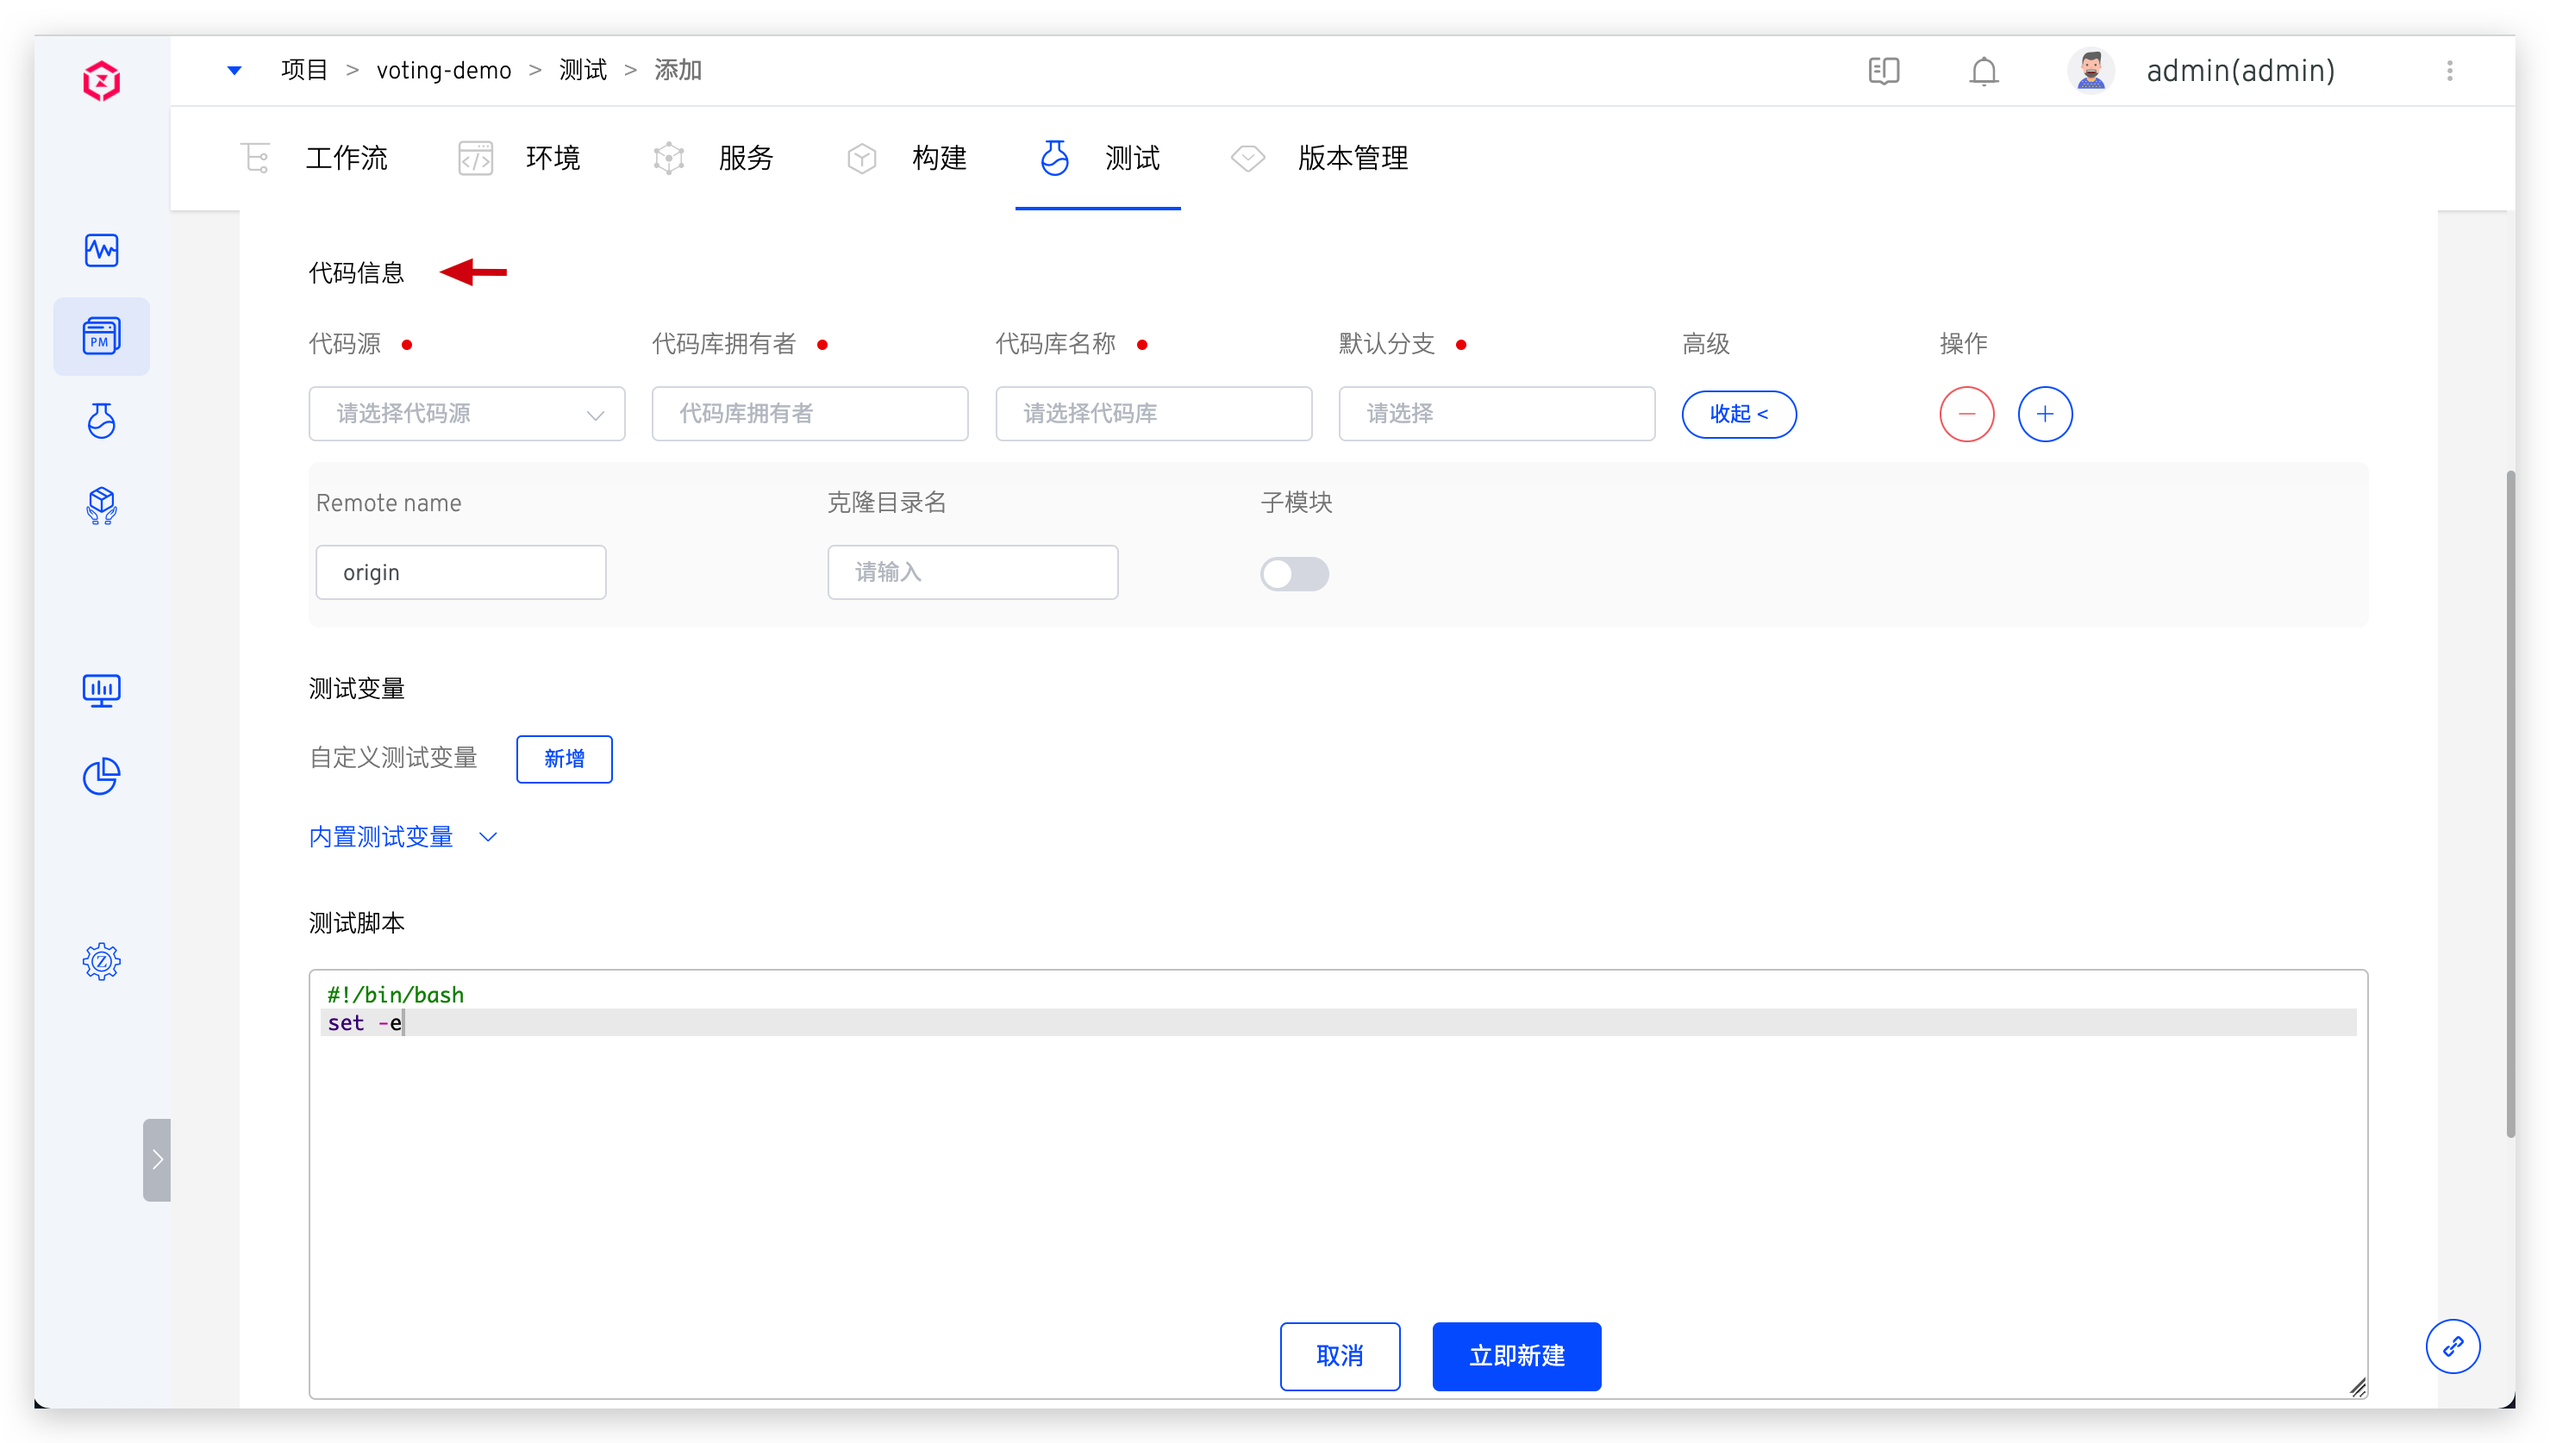
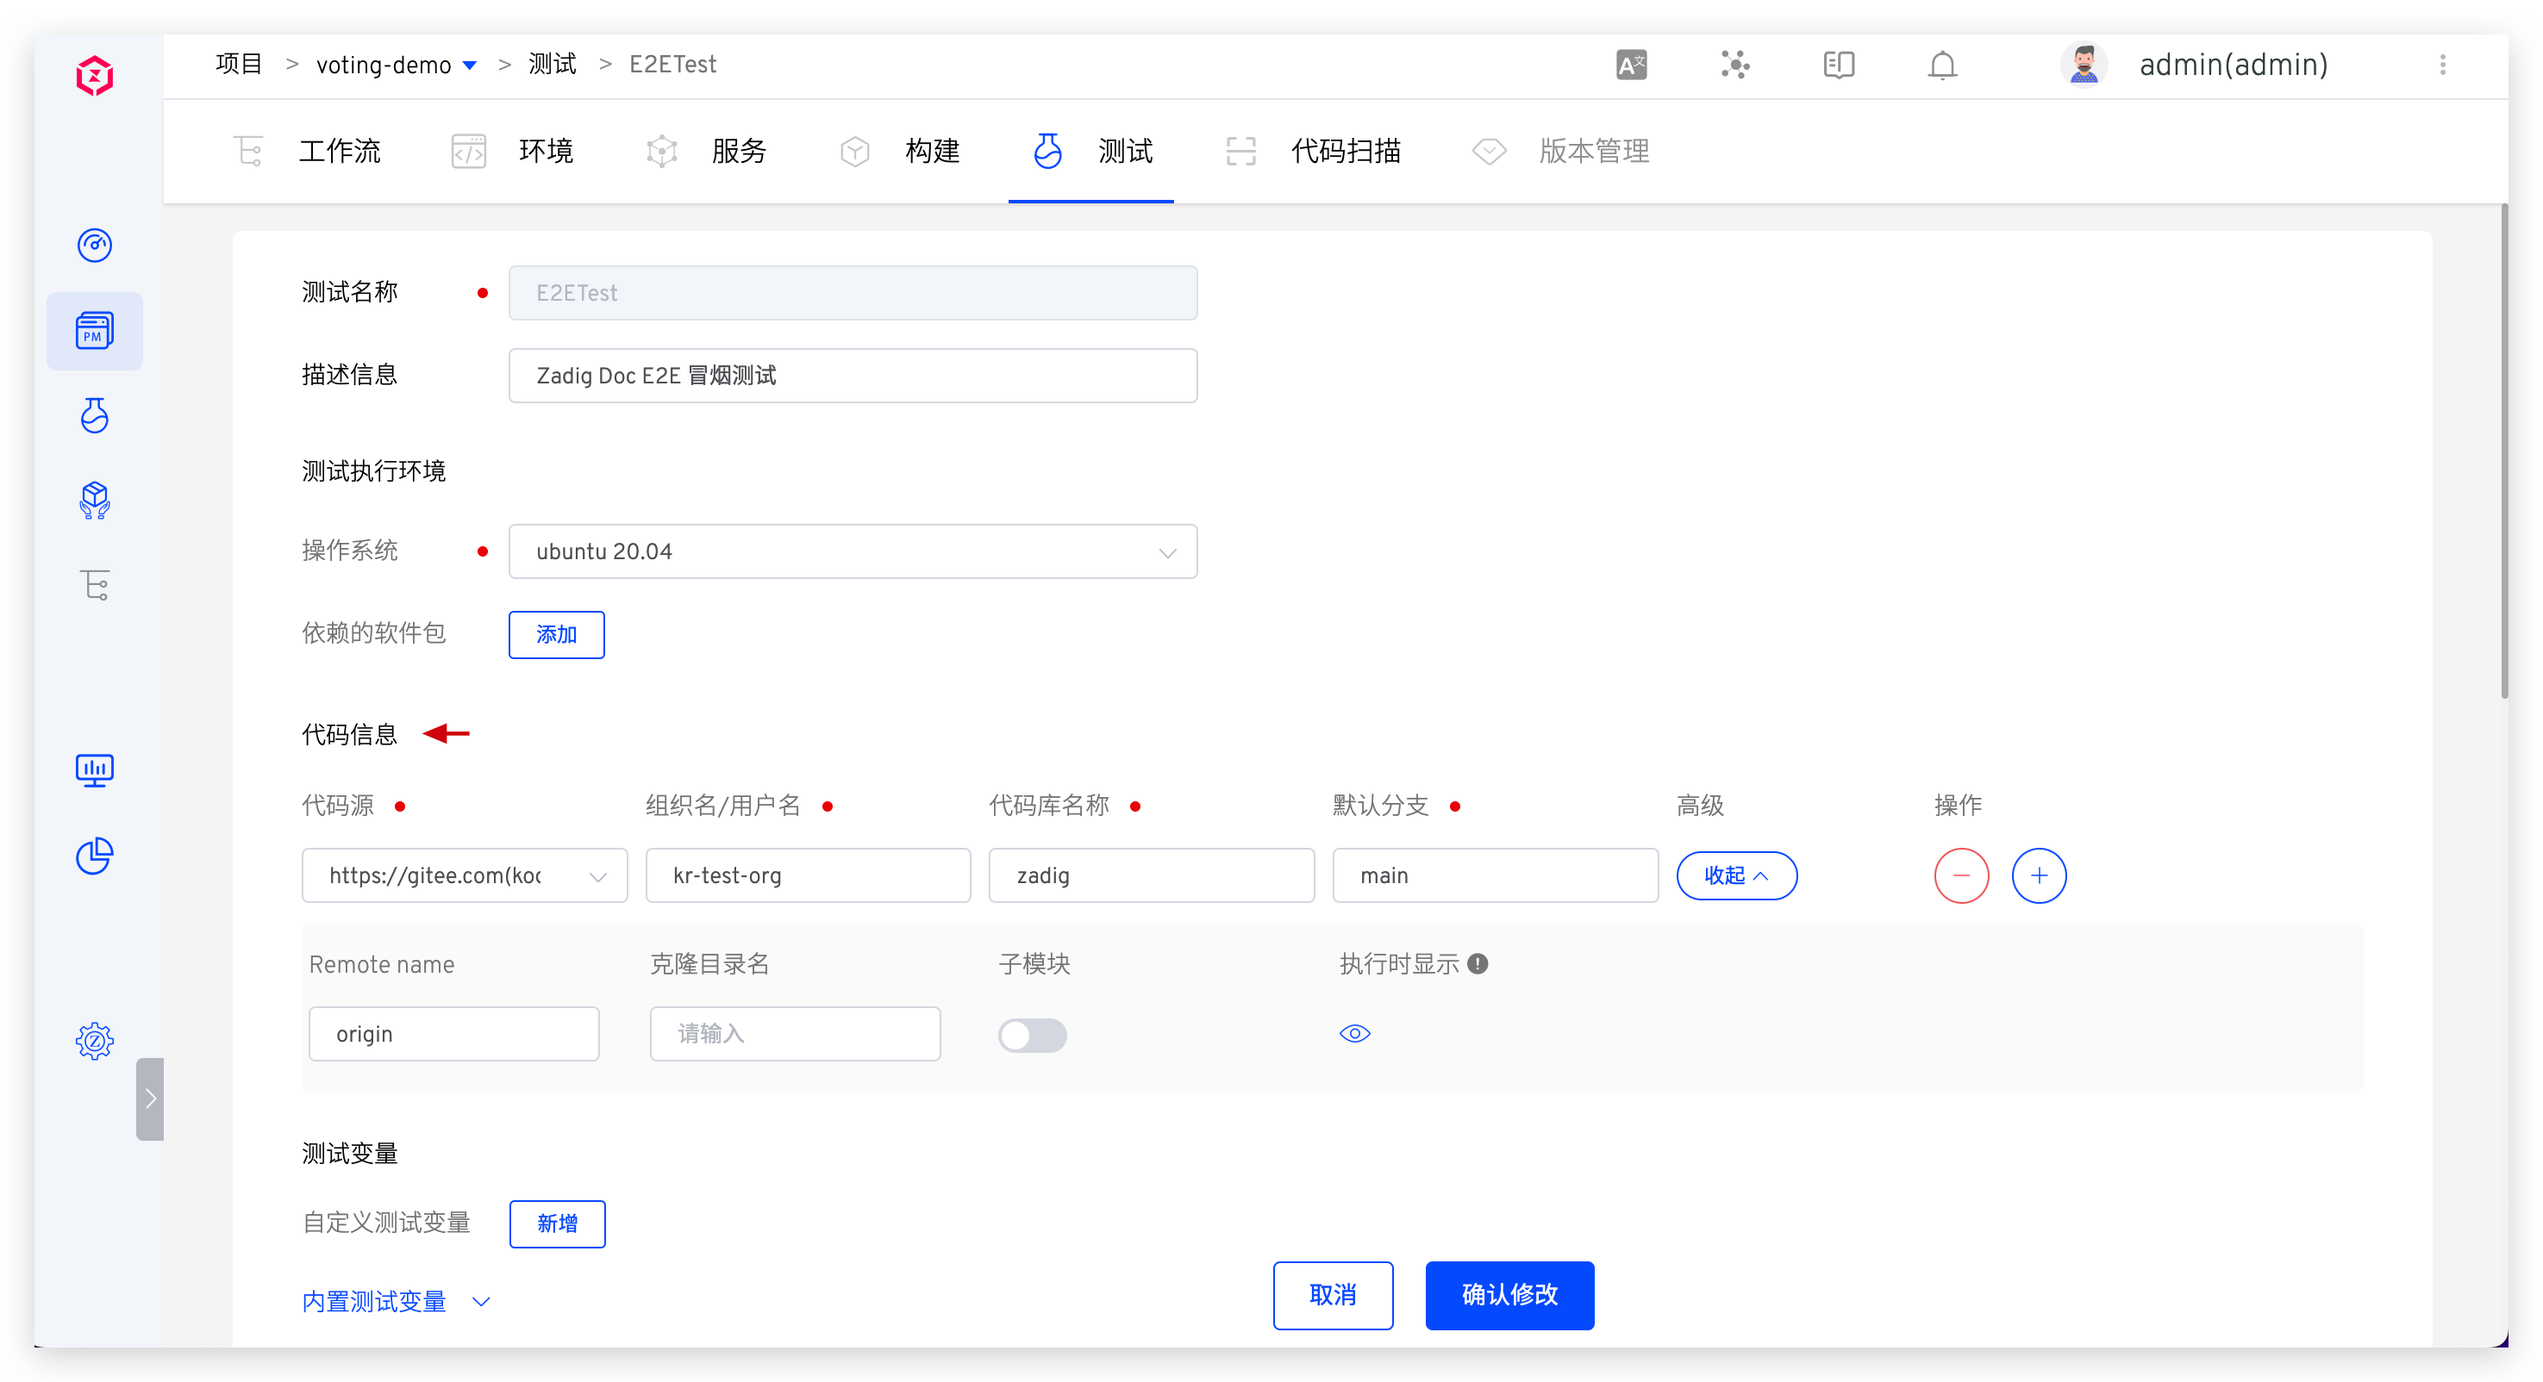
do not display certain code repo

diff --git a/dev/04.项目/06.test.md b/dev/04.项目/06.test.md
@@ -41,6 +41,7 @@ Zadig 支持性能、功能、接口、UI、端到端自动化测试等诸多测
 - `Remote name`：指定远程代码仓库的名称，默认 `origin`。
 - `克隆目录名`：定义代码库被克隆后的目录名称，默认为代码库的名称。
 - `子模块`：同步 `submodule` 中配置的代码库。
+- `执行时显示`：默认开启，若设置为关闭，则执行工作流时，测试模块中不显示该代码库选项，，代码配置使用默认值。
 
 ### 测试变量
 包括系统内置变量和自定义变量，可在测试脚本中直接使用。

diff --git a/dev/04.项目/07.scan.md b/dev/04.项目/07.scan.md
@@ -43,7 +43,7 @@ permalink: /dev/project/scan/
 - `Remote name`：指定远程代码仓库的名称，默认 `origin`
 - `克隆目录名`：定义代码库被克隆后的目录名称，默认为代码库的名称
 - `子模块`：同步 `submodule` 中配置的代码库
-
+- `执行时显示`：默认开启，若设置为关闭，执行代码扫描时不显示该代码库选项，，代码配置使用默认值
 
 ### 前置脚本
 支持前置脚本的运行，在使用SonarQube 工具进行扫描前，可以按需运行脚本，如 Java 编译
